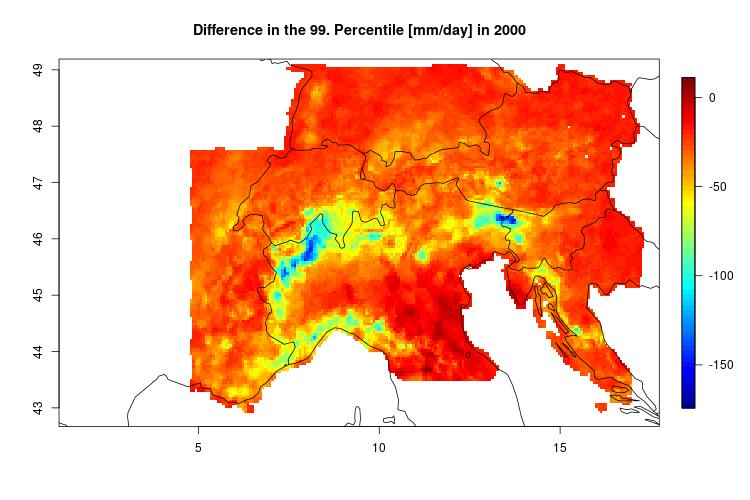
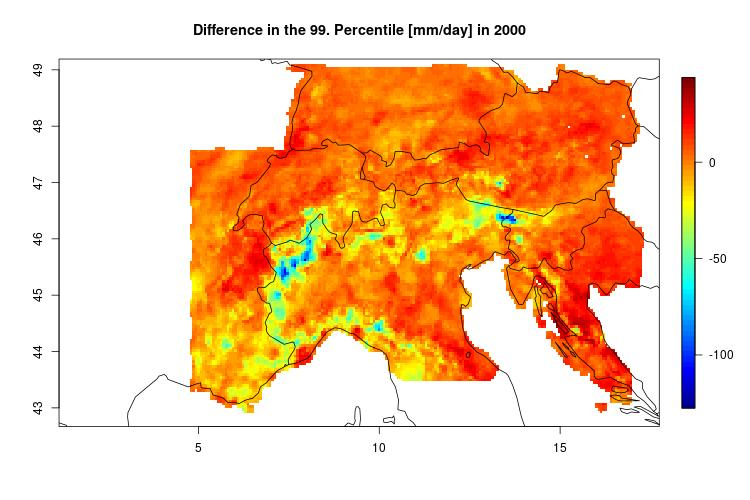
99.Quantile revisited and finished

diff --git a/thesis/chapters/chapter02.tex b/thesis/chapters/chapter02.tex
@@ -1,4 +1,4 @@
-Die bisherige Herangehensweise, den Niederschlag über das Jahresmittel zu Evaluieren ist nicht hinreichend genau. Dadurch wird die lokale und vor allem zeitliche Varianz zu stark beeinträchtigt. Laut D.Maraun \cite{biasMaraun} ist dafür ein Herangehensweise über stochastische Quantile-Mapping nötig.
+Die bisherige Herangehensweise, den Niederschlag über das Jahresmittel zu Evaluieren ist nicht hinreichend genau. Dadurch wird die lokale und vor allem zeitliche Varianz zu stark beeinträchtigt. Bezieht man hingegen das 99. Quantil der Daten wird die in \ref{section:2002} angesprochene tägliche Inkonsistenz umgangen. Das 99. Quantil der Niederschläge entspricht den stärksten örtlichen Regenereignissen. D.Maraun bespricht im Paper \cite{biasMaraun} eine Herangehensweise, in der auch noch die Daten zuvor in die Jahreszeiten aufgeteilt werden, da die Starkregen unterschiedlichst ausfallen- je nach Jahreszeit. Im nächsten Kapitel wird zunächst aber kurz das alljährliche 99.Quantil betrachtet, um einen Vergleichswert zu haben.
 \section{Herangehensweise}
 \begin{itemize}
 	\item Berechnung des 99. jährlichen Quantils aller Datensätze
@@ -7,10 +7,13 @@ Die bisherige Herangehensweise, den Niederschlag über das Jahresmittel zu Evalu
 \end{itemize}
 
 \section{Differenzen des 99. Quantils}
-Von den Datensätzen (historical, evaluation und APGD) wurden zunächst das jährliche 99. Quantil berechnet. Von den Modelldaten wurden wie oben die Beobachtungsdaten abgezogen. Um eine einfachere Darstellung der Ergebnisse zu gewährleisten wurde über Differenzen aller Jahre gemittelt. Es ergab sich die Grafik in Abb. \ref{fig:quantile_all}. Wie darin zu erkennen ist, ist im Mittel kaum noch ein Unterschied zwischen den 99.Quantilen zu erkennen. Die Kurve zieht sich für alle Datensätze  gleich, auch die Anzahl der Abweichungen sind ähnlich. Um dieses Ergebnis zu unterstreichen wurden noch die dazugehörigen Boxplots in Abb.\ref{fig:quantile_all_boxplots} abgebildet: Man erkennt, dass die Biases kaum noch variieren. Dies spricht dafür, dass die Extremniederschläge stark unterschätzt werden. Dies gilt für beide Klimamodelle, CORDEX FPS-CPS (ALP-3) und CLMcom-CCLM4-8-17 (EUR-11). Dieses Verhalten zeigt sich über alle Jahren(vgl. dazu Abb. \ref{fig:quantile_alp3}): das Mitteln hat nicht viel der Variabilität gekostet und somit reicht die Darstellung der gemittelten Daten aus, um diese Auswirkung des Modells abzubilden. Beachtenswert in den Grafiken von Abb.\ref{fig:quantile_alp3} ist, dass sich die maximalen Abweichungen nun auf zwei Hauptspots reduzieren, die im Süden des Alpenhauptkamms und bei Genua liegen. 
+Von den Datensätzen (historical, evaluation und APGD) wurden zunächst das jährliche 99. Quantil berechnet. Von den Modelldaten wurden wie in Kapitel \ref{chap:mean} die Beobachtungsdaten abgezogen. Um eine einfachere Darstellung der Ergebnisse zu gewährleisten wurde über Differenzen aller Jahre gemittelt. Daraus ergab sich die Grafik in Abb. \ref{fig:quantile_all}. \\
+Wie darin zu erkennen ist, ist im Mittel der Datensatz aus dem regionalen Konvektion-erlaubenden Klimamodell (ALP-3) etwas akkurater in der Simulation der Regenmenge, die bei Starkregenereignissen fällt als die vergleichbaren Datensätze aus dem Modell CLMcom-CCLM4-8-17 (EUR-11). Für alle Datensätze gilt jedoch, dass Starkregenereignisse eher stark unterschätzt als überschätzt werden. Dies erkennt man am stark linkslastigen Verlauf der Kurve, die für alle Datensätze ähnlich verläuft. Doch sie erreichen ihren Peak näher oder weniger nahe bei $0$. Um dieses Ergebnis zu unterstreichen wurden noch die dazugehörigen Boxplots in Abb.\ref{fig:quantile_all_boxplots} abgebildet: Man erkennt, dass alle Biases ziemlich gut bei $0$ liegen, nur der Datensatz Historical von ALP-3 scheint viele Extremniederschläge zu stark zu überschätzen, was sich in einem Bias von $+5.35383 \frac{mm}{Tag}$ zeigt. Das spricht wiederum für ein overfitting des Modells CORDEX FPS-CPS (ALP-3), wie bereits in Kapitel \ref{section:2002} angemerkt wurde. Das erkennt man vor allem beim Boxplot in Abb.\ref{fig:quantile_all_boxplots} für den Evaluation-Datensatz aus ALP-3, der überdurchschnittlich viele Ausreiser darstellt. \\
+Dieses im Gemittelten abgezeichnete Verhalten zeigt sich über alle Jahre hinweg, wie bei Betrachten der Grafiken in Abb.\ref{fig:quantile_all_boxplot_all_years_1} \& \ref{fig:quantile_all_boxplot_all_years_2} nachvollzogen werden kann: Die Aufteilung bzw. Streuung der Daten scheint den gemittelten Verlauf abzubilden ohne große Ausreißer darzustellen. Deshalb wurde daraus geschlossen, dass das Mitteln nicht viel der Variabilität gekostet hat. Somit reicht die Darstellung der gemittelten Daten aus, um diese Besonderheiten des Modells abzubilden.\\
+Die Grafiken von Abb.\ref{fig:quantile_alp3}\& \ref{fig:quantile_alp3_1}) geben Aufschluss darüber, welche örtlichen Maximalstellen die Abweichung hat. Beachtenswert ist, dass sich die maximalen Abweichungen nun auf drei Hauptspots reduzieren, welche im Südwesten des Alpenhauptkamms, bei Genua und an der Italienisch-Slowenischen Grenze liegen. Dort scheint oft zu wenig Niederschlagsmenge bei Starkregen simuliert bzw. abgebildet worden zu sein.Sehr auffallend ist auch, dass im Evaluation-Datensatz ein Starkregenereignis dauernd überschätzt wird, welches im Süden von Kroatien liegt. Dies scheint wohl ein Ausreißer zu sein, da Mengen von bis zu $500 \frac{mm}{Tag}$ über-simuliert werden.\\
 \begin{figure}
-	\includegraphics[width=0.8\textwidth]{quantile_all/freq_mean_q99.jpg}
-	\caption{Die Abweichungen vom 99. Quantil des Niederschlags, gemittelt über alle Jahre}
+	\includegraphics[width=\textwidth]{quantile_all/freq_mean_q99.jpg}
+	\caption{Die Abweichungen vom 99. Quantil des Niederschlags, gemittelt über alle Jahre, Der Bereich von $-60\frac{mm}{Tag}$ abwärts wurde abgeschnitten, da es sich in diesem Bereich um seltene Ausreißer handelt.}
 	\label{fig:quantile_all}
 \end{figure}
 \begin{figure}
@@ -32,6 +35,62 @@ Von den Datensätzen (historical, evaluation und APGD) wurden zunächst das jäh
 	\end{subfigure}
 	\caption{Boxplots der Abweichungen im 99.Quantil, gemittelt über alle Jahre für die 4 Datensätze.}
 	\label{fig:quantile_all_boxplots}
+\end{figure}
+\begin{figure}
+	\begin{subfigure}{0.32\textwidth}
+		\includegraphics[width=\textwidth]{quantile_all/boxplot_hist_eur11_1996.jpg}
+		\caption{Historical, EUR-11, 1996}
+	\end{subfigure}
+	\begin{subfigure}{0.32\textwidth}
+		\includegraphics[width=\textwidth]{quantile_all/boxplot_hist_eur11_2000.jpg}
+		\caption{Historical, EUR-11, 2000}
+	\end{subfigure}
+	\begin{subfigure}{0.32\textwidth}
+		\includegraphics[width=\textwidth]{quantile_all/boxplot_hist_eur11_2005.jpg}
+		\caption{Historical, EUR-11, 2005}
+	\end{subfigure}
+	\begin{subfigure}{0.32\textwidth}
+		\includegraphics[width=\textwidth]{quantile_all/boxplot_hist_alp3_1996.jpg}
+		\caption{Historical, ALP-3, 1996}
+	\end{subfigure}
+	\begin{subfigure}{0.32\textwidth}
+		\includegraphics[width=\textwidth]{quantile_all/boxplot_hist_alp3_2000.jpg}
+		\caption{Historical, ALP-3, 2000}
+	\end{subfigure}
+	\begin{subfigure}{0.32\textwidth}
+		\includegraphics[width=\textwidth]{quantile_all/boxplot_hist_alp3_2005.jpg}
+		\caption{Historical, ALP-3, 2005}
+	\end{subfigure}
+	\caption{Boxplot der Differenzen im 99.Quantil für die Jahre 1996, 2000 und 2005}
+\label{fig:quantile_all_boxplot_all_years_1}
+\end{figure}
+\begin{figure}
+	\begin{subfigure}{0.32\textwidth}
+		\includegraphics[width=\textwidth]{quantile_all/boxplot_eval_eur11_1996.jpg}
+		\caption{Evaluation, EUR-11, 1996}
+	\end{subfigure}
+	\begin{subfigure}{0.32\textwidth}
+		\includegraphics[width=\textwidth]{quantile_all/boxplot_eval_eur11_2000.jpg}
+		\caption{Evaluation, EUR-11, 2000}
+	\end{subfigure}
+	\begin{subfigure}{0.32\textwidth}
+		\includegraphics[width=\textwidth]{quantile_all/boxplot_eval_eur11_2005.jpg}
+		\caption{Evaluation, EUR-11, 2005}
+	\end{subfigure}
+	\begin{subfigure}{0.32\textwidth}
+		\includegraphics[width=\textwidth]{quantile_all/boxplot_eval_alp3_1996.jpg}
+		\caption{Evaluation, ALP-3, 1996}
+	\end{subfigure}
+	\begin{subfigure}{0.32\textwidth}
+		\includegraphics[width=\textwidth]{quantile_all/boxplot_eval_alp3_2000.jpg}
+		\caption{Evaluation, ALP-3, 2000}
+	\end{subfigure}
+	\begin{subfigure}{0.32\textwidth}
+		\includegraphics[width=\textwidth]{quantile_all/boxplot_eval_alp3_2005.jpg}
+		\caption{Evaluation, ALP-3, 2005}
+	\end{subfigure}
+	\caption{Boxplot der Differenzen im 99.Quantil für die Jahre 1996, 2000 und 2005}
+	\label{fig:quantile_all_boxplot_all_years_2}
 \end{figure}
 \begin{figure}
 	\begin{subfigure}{0.32\textwidth}
@@ -58,6 +117,10 @@ Von den Datensätzen (historical, evaluation und APGD) wurden zunächst das jäh
 		\includegraphics[width=\textwidth]{quantile_all/2005dif_q99_hist_alp3.jpg}
 		\caption{Historical, ALP-3, 2005}
 	\end{subfigure}
+	\caption{Differenzen im 99.Quantil für die Jahre 1996, 2000 und 2005 (gemittelt über das Jahr)}
+	\label{fig:quantile_alp3_1}
+	\end{figure}
+	\begin{figure}
 	\begin{subfigure}{0.32\textwidth}
 		\includegraphics[width=\textwidth]{quantile_all/1996dif_q99_eval_eur11.jpg}
 		\caption{Evaluation, EUR-11, 1996}
@@ -87,4 +150,10 @@ Von den Datensätzen (historical, evaluation und APGD) wurden zunächst das jäh
 \end{figure}
 
 \section{Zusammenfassung}
-Da durch die in diesem Kapitel verfolgte Herangehensweise ein relativ schlechtes Ergebnis für die Vorhersage der Extremniederschläge in allen betrachteten Klimamodellen erzeugt wurde, soll im folgenden Kapitel die Extremniederschläge in den unterschiedlichen Jahreszeiten betrachtet werden. Wie in den Abbildungen \ref{fig:quantile_alp3} zu erkennen ist, scheinen manche Regionen besonders stark unterschätzte Starkregen-Ereignisse aufzuweisen. Diese Regionen wurden in ''Major flood disasters in Europe: 1950–2005'' \cite{barredo_major_2007} unter anderem als Regionen größerer Flutkatastrophen genannt. Dies weißt darauf hin, dass die Klimasimulation für solche Orte gesondert betrachtet werden muss und vielleicht von einem Klimamodell, welches den ganzen Alpenraum abdeckt nicht vollends richtig berechnet werden kann. 
+In diesem Kapitel wurden die 99.Quantile und somit die modellierten Starkregenereignisse des gesamten Jahres mit den Beobachtungsdaten verglichen. Dadurch wurde ein guter Aufschluss darüber erlangt, wie die Starkregenereignisse im generellen durch die Bank der unterschiedlichen Datensätzen simuliert werden. Wie es scheint herrscht eine relativ gute Abbildung der tatsächlichen gemessenen Wertem, sieht man von den Ausreißern ab. In den Abbildungen \ref{fig:quantile_alp3} erkennt man gut, dass manche Regionen besonders stark unterschätzte Starkregen-Ereignisse aufweisen: 
+\begin{itemize}
+	\item Der Bereich rund um Genua
+	\item Das Grenzgebiet von Italien zur südlichen Schweiz
+	\item Ein Bereich an der Slowenisch-Italienische Grenze
+\end{itemize}
+Diese Regionen wurden in ''Major flood disasters in Europe: 1950–2005'' \cite{barredo_major_2007} unter anderem als Regionen größerer Flutkatastrophen genannt. Auf diesen Zusammenhang soll in den nächsten Kapiteln unter anderem eingegangen werden. Das besondere Abzeichnen der Differenzen in diesen Regionen weißt darauf hin, dass die Klimasimulation für solche Orte gesondert betrachtet werden muss oder den Modellen noch einige Parameter beziehungsweise Module für solche orthographische und geographischen Konstellationen fehlen.
